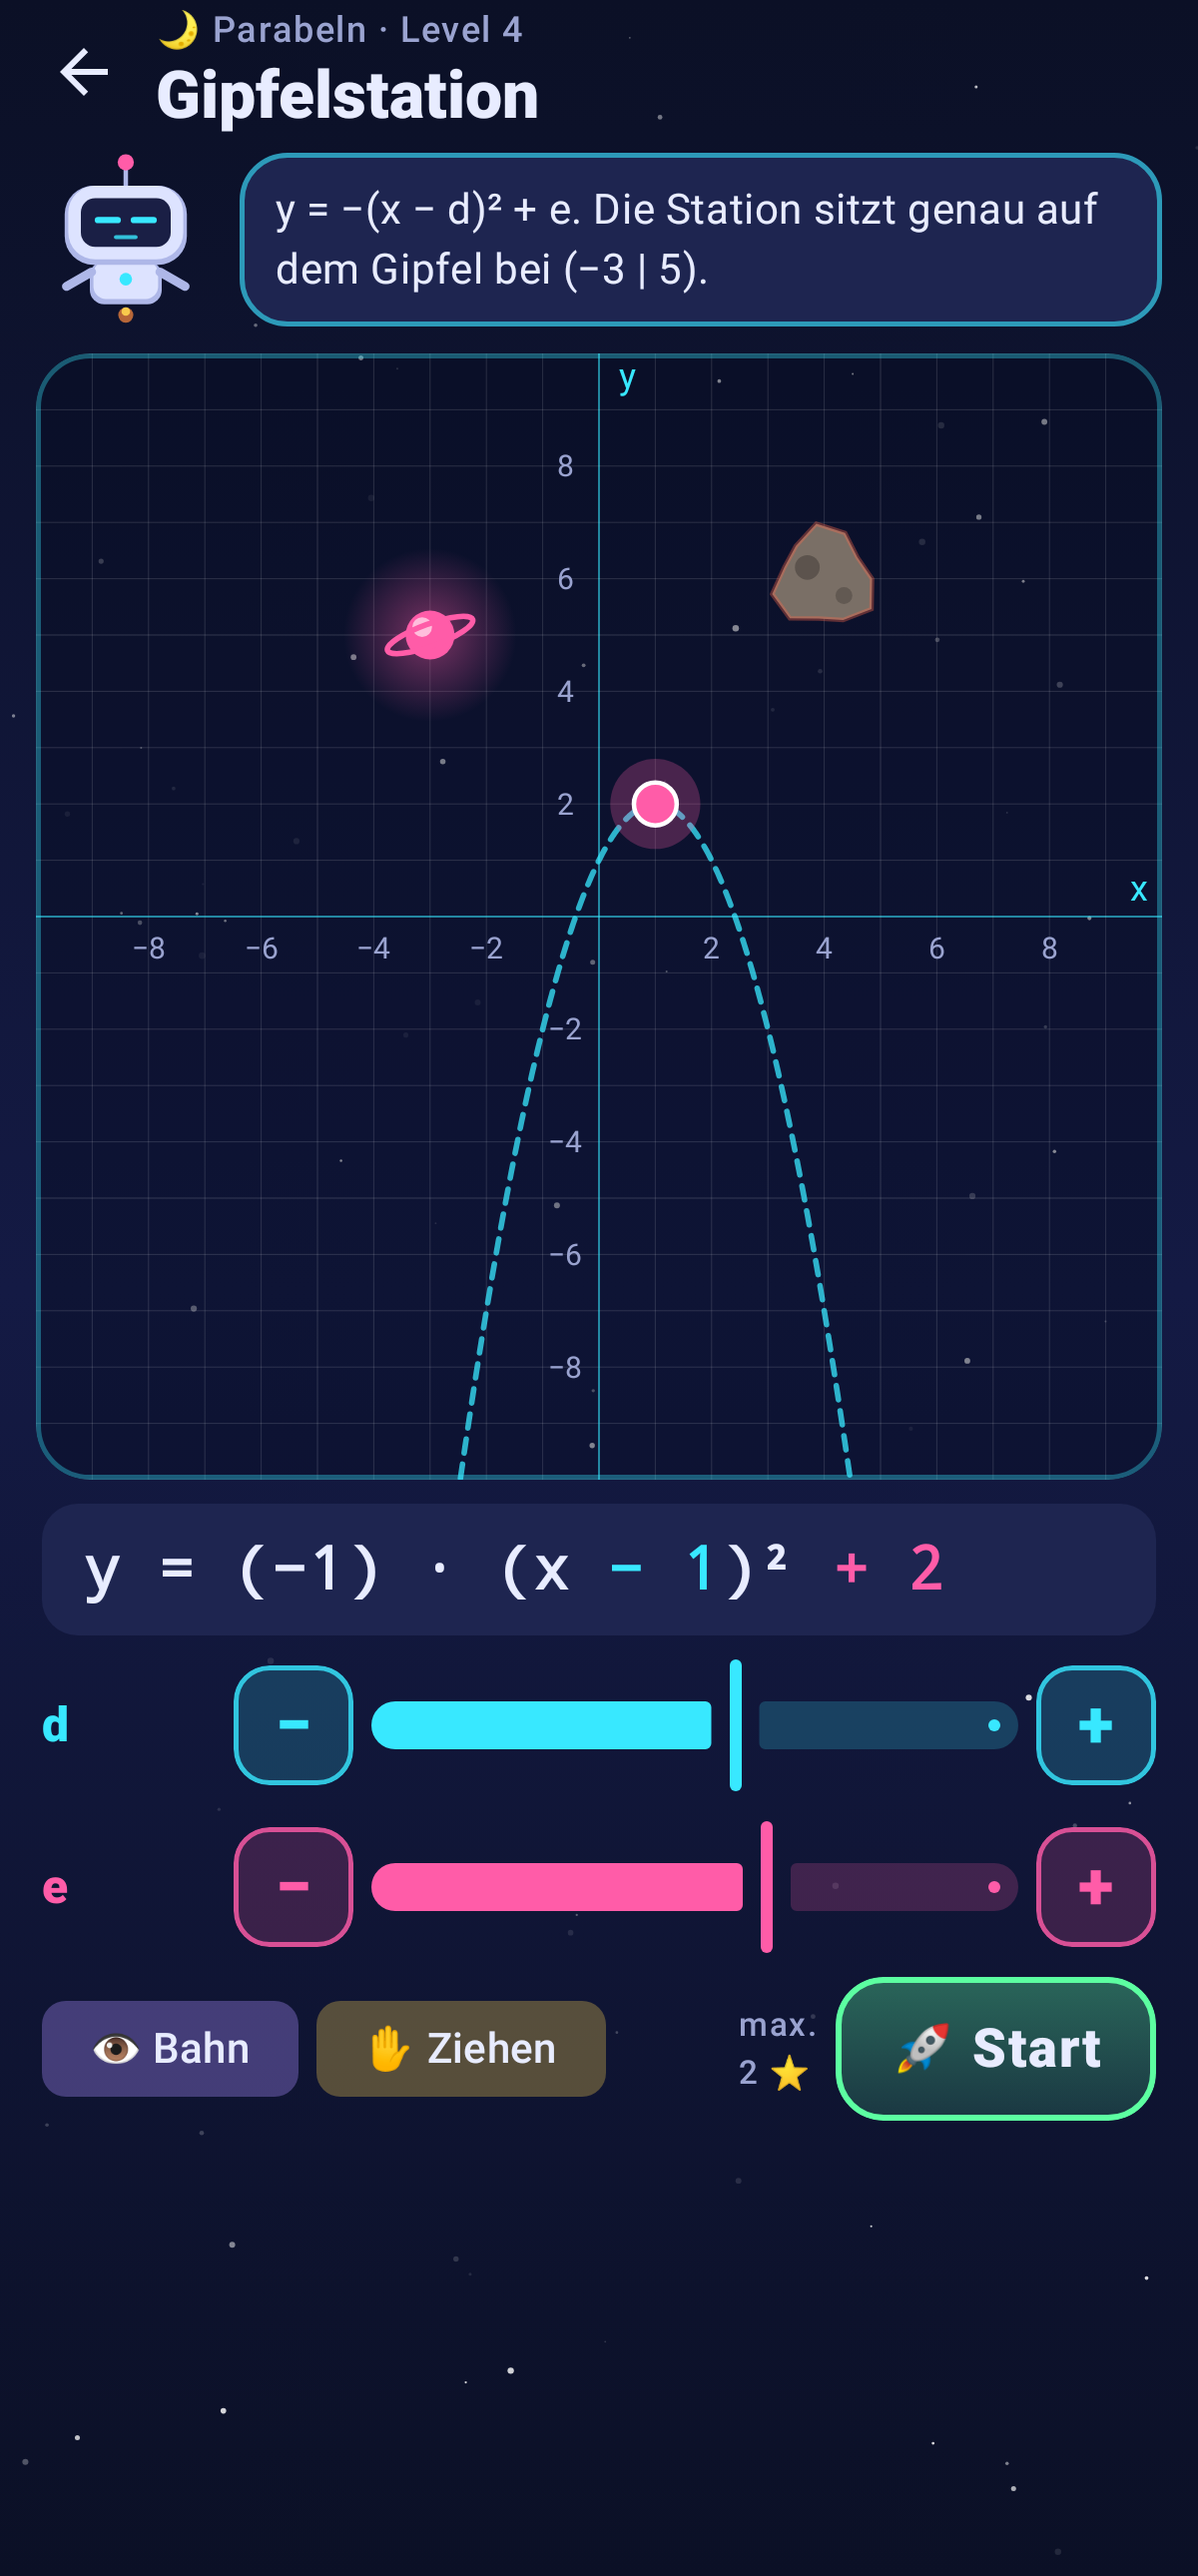
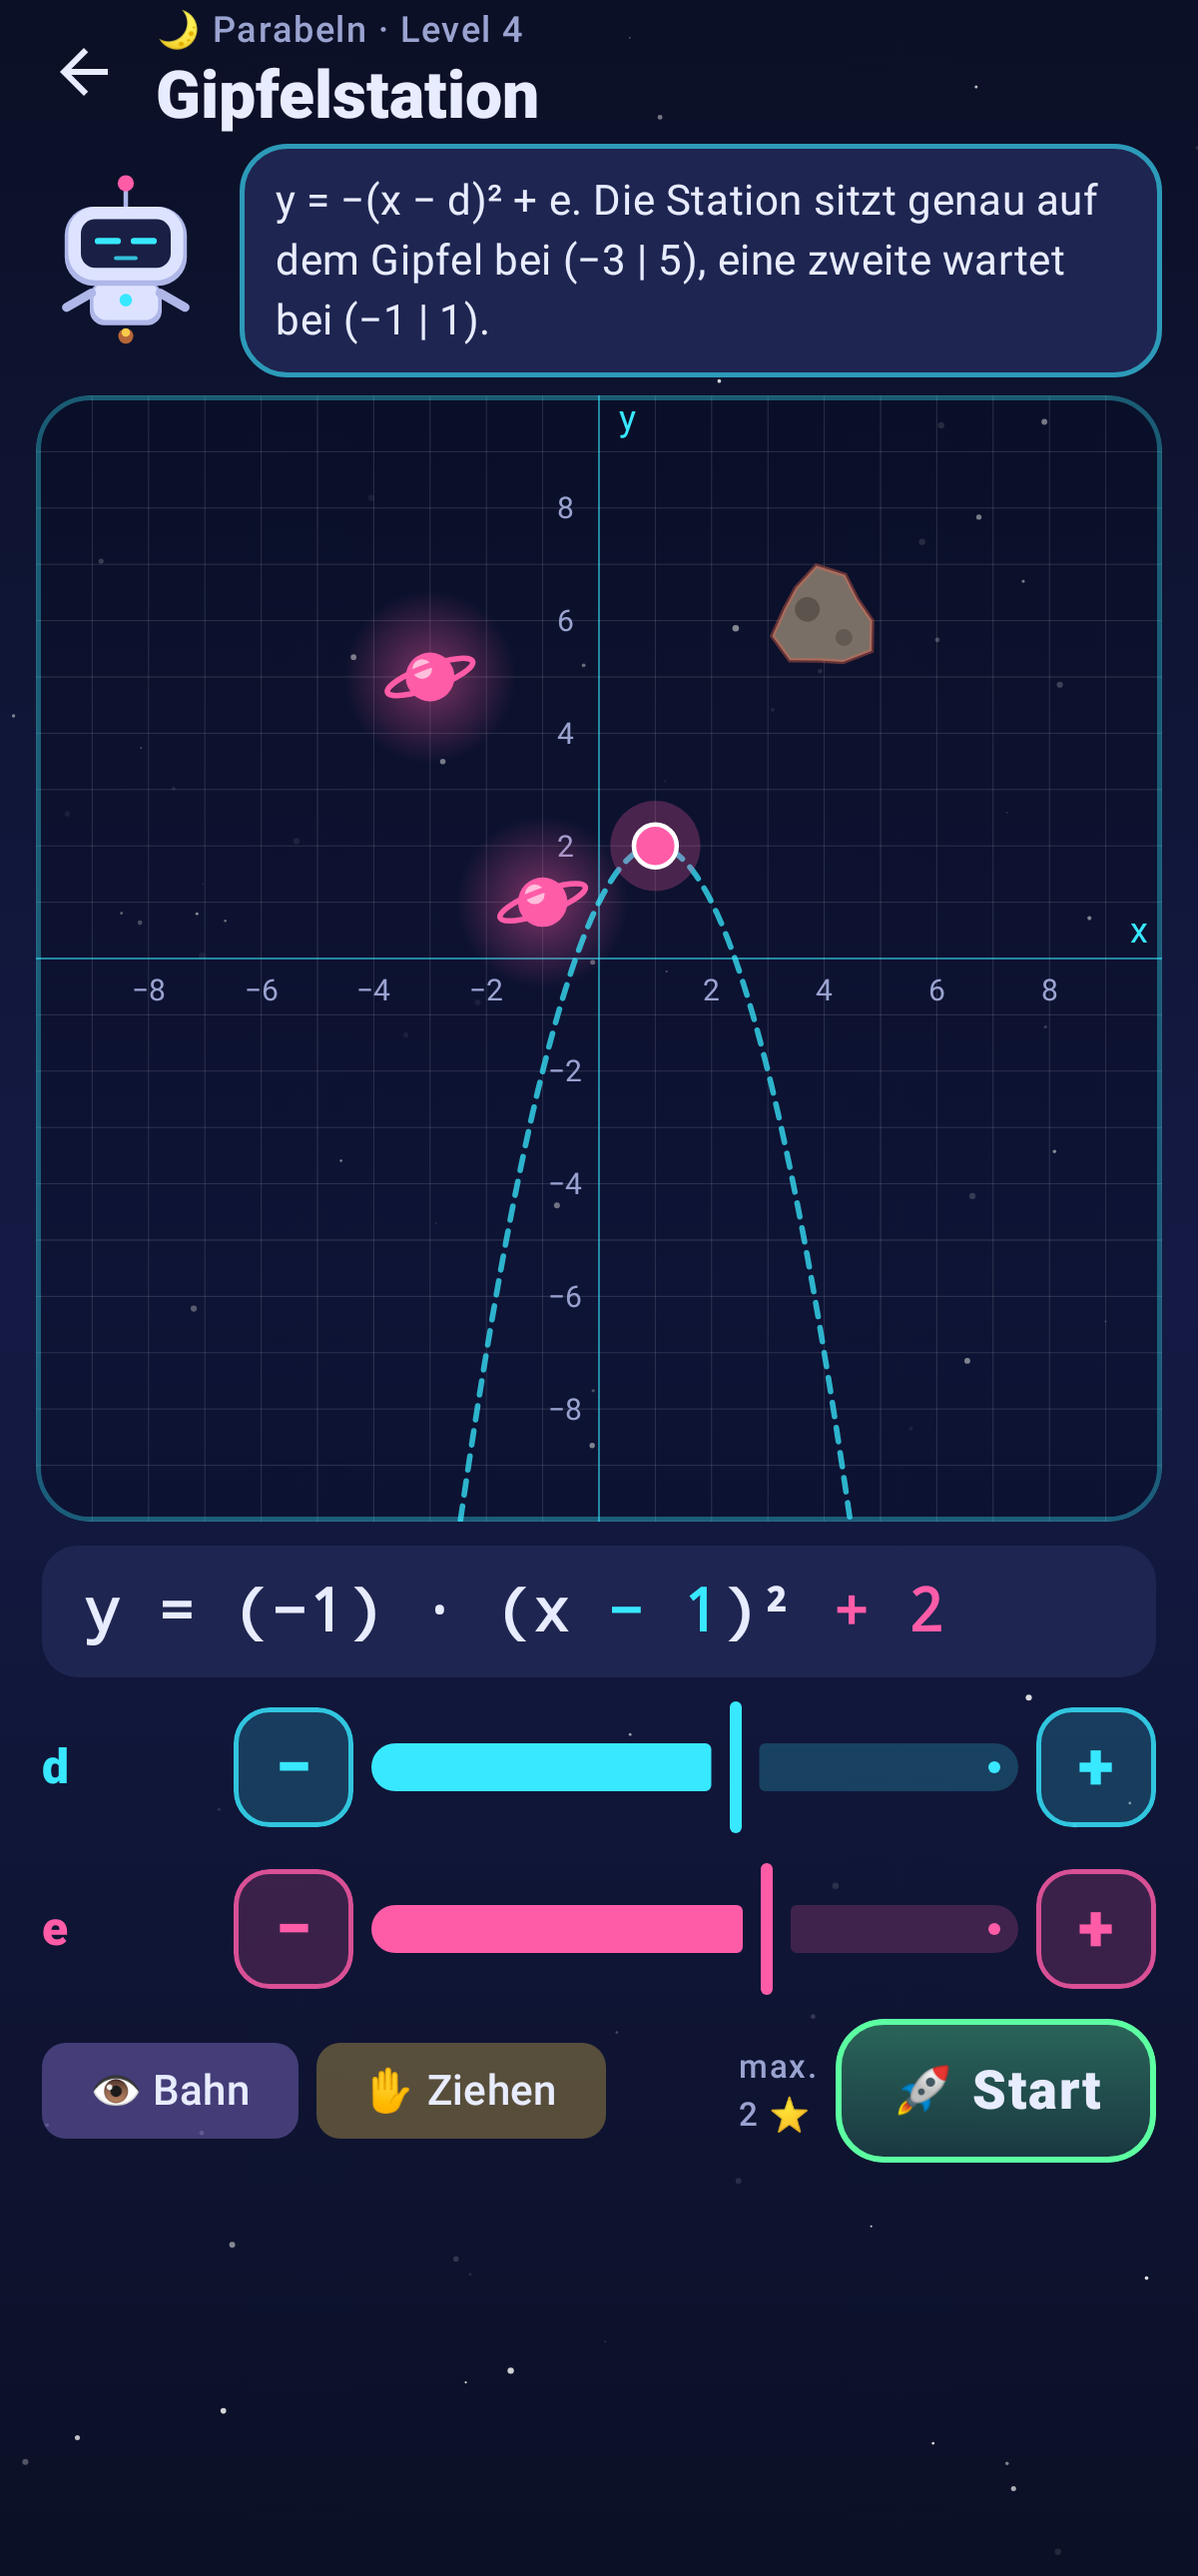
Kurvenflug 0.5.3: Laser-Zielhilfe bis zum ersten Spiegel, Koordinaten-Level altersgerecht, Gipfelstation eindeutig
- Flight.firstLeg: Vorschau-Strahl endet am ersten Knick (Spiegel); Test dazu, neues Bildschirmfoto 37_laser_zielen
- 1-5: „x = 2 − 4“ statt „−8 : 4“; 1-7: Mitte durch Kästchenzählen (−6 | 6) und (2 | −2)
- 3-4: zweite Station (−1 | 1) – bei a = −1 nur noch der Scheitel (−3 | 5) lösbar

Claude-Session: https://claude.ai/code/session_015vg1TniCB6sLGd2dNSJdge

diff --git a/kurvenflug/core/model/src/main/kotlin/de/kurvenflug/core/model/Levels.kt b/kurvenflug/core/model/src/main/kotlin/de/kurvenflug/core/model/Levels.kt
@@ -200,17 +200,17 @@ object Levels {
                     listOf(t(-7.0, -4.0)), listOf(px, py), mapOf("x" to -7.0, "y" to -4.0),
                     tip = "Zähle von der Mitte aus: erst die Kästchen nach links, dann nach unten. Beides ist minus."),
                 Level("1-5", 1, 5, "Funkspruch", Kind.POINT,
-                    "Die Station ist getarnt! Funkspruch: „x = −8 : 4,  y = 3 + 4“",
+                    "Die Station ist getarnt! Funkspruch: „x = 2 − 4,  y = 3 + 4“",
                     listOf(t(-2.0, 7.0)), listOf(px, py), mapOf("x" to -2.0, "y" to 7.0), hidden = true,
-                    tip = "−8 : 4 = −2. Und 3 + 4 = 7."),
+                    tip = "2 − 4: von 2 aus vier Schritte nach links – du landest bei −2. Und 3 + 4 = 7."),
                 Level("1-6", 1, 6, "Spiegelwelt", Kind.POINT,
                     "Getarnt: Die Station ist das Spiegelbild von (5 | −3) – gespiegelt an der x-Achse.",
                     listOf(t(5.0, 3.0)), listOf(px, py), mapOf("x" to 5.0, "y" to 3.0), hidden = true,
                     tip = "Beim Spiegeln an der x-Achse bleibt x gleich, y wechselt das Vorzeichen."),
                 Level("1-7", 1, 7, "Halbe Strecke", Kind.POINT,
-                    "Getarnt: Die Station liegt genau in der Mitte zwischen (−6 | 8) und (2 | −4).",
+                    "Getarnt: Die Station liegt genau in der Mitte zwischen (−6 | 6) und (2 | −2).",
                     listOf(t(-2.0, 2.0)), listOf(px, py), mapOf("x" to -2.0, "y" to 2.0), hidden = true,
-                    tip = "Mitte = Durchschnitt: x = (−6 + 2) : 2, y = (8 + (−4)) : 2."),
+                    tip = "Zähl die Kästchen: von −6 bis 2 sind es 8, die Hälfte ist 4 → x = −6 + 4. Bei y genauso: von 6 bis −2 sind es 8, also 4 nach unten."),
             ),
         ),
         Chapter(
@@ -316,10 +316,10 @@ object Levels {
                     cells = listOf(cell(0.0, 6.0)),
                     tip = "a · 16 + 6 = 2 → a · 16 = −4."),
                 Level("3-4", 3, 4, "Gipfelstation", Kind.PARABOLA,
-                    "y = −(x − d)² + e. Die Station sitzt genau auf dem Gipfel bei (−3 | 5).",
-                    listOf(t(-3.0, 5.0)), listOf(pd, pe), mapOf("d" to -3.0, "e" to 5.0), fixed = mapOf("a" to -1.0),
+                    "y = −(x − d)² + e. Die Station sitzt genau auf dem Gipfel bei (−3 | 5), eine zweite wartet bei (−1 | 1).",
+                    listOf(t(-3.0, 5.0), t(-1.0, 1.0)), listOf(pd, pe), mapOf("d" to -3.0, "e" to 5.0), fixed = mapOf("a" to -1.0),
                     asteroids = listOf(rock(4.0, 6.0)),
-                    tip = "Der Gipfel ist der Scheitel (d | e)."),
+                    tip = "Der Gipfel ist der Scheitel (d | e). Probe: 2 Schritte neben dem Gipfel geht es um 2² = 4 nach unten."),
                 Level("3-5", 3, 5, "Drei Stationen", Kind.PARABOLA,
                     "Alle drei Regler! Durch (−2 | 2), (1 | −7) und (4 | 2).",
                     listOf(t(-2.0, 2.0), t(1.0, -7.0), t(4.0, 2.0)), listOf(pa, pd, pe),

diff --git a/kurvenflug/core/model/src/main/kotlin/de/kurvenflug/core/model/Flight.kt b/kurvenflug/core/model/src/main/kotlin/de/kurvenflug/core/model/Flight.kt
@@ -282,6 +282,22 @@ object Flight {
         return out
     }
 
+    /** Der gerade Anfang einer Bahn bis zum ersten Knick (Laser: bis zum ersten Spiegel). */
+    fun firstLeg(path: List<Vec>): List<Vec> {
+        if (path.size < 3) return path
+        var dir: Vec? = null
+        for (i in 1 until path.size) {
+            val dx = path[i].x - path[i - 1].x; val dy = path[i].y - path[i - 1].y
+            val len = hypot(dx, dy)
+            if (len < 1e-9) continue
+            val d = Vec(dx / len, dy / len)
+            val first = dir
+            if (first == null) dir = d
+            else if (abs(first.x * d.y - first.y * d.x) > 1e-3 || first.x * d.x + first.y * d.y < 0) return path.take(i)
+        }
+        return path
+    }
+
     /** Bahnen der Form y = f(x) */
     val functionKinds = setOf(Kind.LINE, Kind.PARABOLA, Kind.SINE, Kind.EXP, Kind.PROP, Kind.ANTI, Kind.LOG, Kind.MOTION)
 

diff --git a/kurvenflug/app/src/main/java/de/kurvenflug/app/ui/flight/LevelScreen.kt b/kurvenflug/app/src/main/java/de/kurvenflug/app/ui/flight/LevelScreen.kt
@@ -113,7 +113,8 @@ fun LevelScreen(
         if (level.kind == Kind.POINT || level.kind == Kind.RADIUS && !help) emptyList()
         else Flight.path(level, values).let { p ->
             if (help) p else when (level.kind) {
-                Kind.THROW, Kind.ORBIT, Kind.LASER -> p.take(min(p.size, 70))     // die ersten ~1,5 Kästchen: Abschussrichtung
+                Kind.THROW, Kind.ORBIT -> p.take(min(p.size, 70))                 // die ersten ~1,5 Kästchen: Abschussrichtung
+                Kind.LASER -> Flight.firstLeg(p)                                  // bis zum ersten Spiegel – den Abprall konstruierst du selbst
                 Kind.RAMP -> p.take(1)                                            // nur die Kugel am Start
                 else -> p.take(min(p.size, 100))          // die ersten 2 Kästchen am Rand
             }

diff --git a/kurvenflug/core/model/src/test/kotlin/de/kurvenflug/core/model/FlightTest.kt b/kurvenflug/core/model/src/test/kotlin/de/kurvenflug/core/model/FlightTest.kt
@@ -155,4 +155,17 @@ class FlightTest {
             assertTrue("${l.id}: $wins Stellungen treffen", wins in 1..4)
         }
     }
+
+    /** Laser-Zielhilfe: Die Vorschau endet genau am ersten Spiegel. */
+    @Test fun laserFirstLegEndsAtFirstMirror() {
+        val l = Levels.byId("11-1")!! // Boden-Spiegel von (−6 | −6) bis (3 | −6), Abschuss bei (−9 | 0)
+        val path = Flight.path(l, mapOf("angle" to -45.0))
+        val leg = Flight.firstLeg(path)
+        assertTrue(leg.size in 2 until path.size)
+        assertEquals(-6.0, leg.last().y, 0.1)
+        assertEquals(-3.0, leg.last().x, 0.1)
+        // ohne Spiegel im Weg: die ganze Bahn ist gerade
+        val straight = Flight.path(l, mapOf("angle" to 30.0))
+        assertEquals(straight.size, Flight.firstLeg(straight).size)
+    }
 }

diff --git a/kurvenflug/app/src/test/java/de/kurvenflug/app/ui/ScreenshotTest.kt b/kurvenflug/app/src/test/java/de/kurvenflug/app/ui/ScreenshotTest.kt
@@ -153,6 +153,9 @@ class ScreenshotTest {
     @Test fun laser() = level("11-2", name = "31_laser", values = mapOf("angle" to 4.0), settle = 1500,
         prepare = { it.onNodeWithText("🚀 Start").performClick() })
 
+    /** Zielhilfe: Der Strahl ist bis zum ersten Spiegel zu sehen – den Abprall konstruiert man selbst. */
+    @Test fun laserAim() = level("11-1", name = "37_laser_zielen", values = mapOf("angle" to -35.0))
+
     @Test fun ramp() = level("12-1", name = "32_energie_rampe", values = mapOf("h" to 8.0), settle = 1100,
         prepare = { it.onNodeWithText("🚀 Start").performClick() })
 

diff --git a/kurvenflug/CHANGELOG.md b/kurvenflug/CHANGELOG.md
@@ -3,6 +3,13 @@
 Kurz und verständlich für Schüler und Eltern. Der Abschnitt der aktuellen Version erscheint automatisch
 im GitHub-Release und in der App unter „App-Update“.
 
+## 0.5.3 – Laser-Zielhilfe & passendere Aufgaben
+- **🔦 Laser-Zielhilfe**: Beim Zielen siehst du den Strahl jetzt bis zum ersten Spiegel. Wohin er abprallt, findest du selbst
+  heraus – Einfallswinkel = Ausfallswinkel. So kommt man mit Überlegen zum Ziel statt mit Raten.
+- **📍 Koordinaten (Klasse 5–6)**: Die Funksprüche passen jetzt zur Klassenstufe – „2 − 4“ statt Teilen mit Minuszahlen,
+  und die Mitte zwischen zwei Punkten findet man durch Kästchenzählen.
+- **🌙 Gipfelstation**: Eine zweite Station sorgt dafür, dass wirklich der Gipfel (Scheitel) getroffen werden muss.
+
 ## 0.5.2 – Rechnen lohnt sich
 - **Treffer zählen jetzt nur, wenn die Rechnung stimmt**: Bisher reichte es manchmal, wenn eine steile Kurve die Station nur
   am Rand streifte – dann klappte es auch mit geratenen Zahlen. Jetzt muss die Kurve an der Stelle der Station die richtige

diff --git a/kurvenflug/README.md b/kurvenflug/README.md
@@ -30,7 +30,7 @@ Rendezvous/Gleichungssysteme (Kl. 8), schräger Wurf auf Erde/Mond/Mars (Physik)
 | ![](screenshots/27_klassen_challenge.png) | ![](screenshots/28_formel_detektiv.png) | ![](screenshots/29_antiproportional.png) |
 | ![](screenshots/30_pythagoras.png) | ![](screenshots/31_laser.png) | ![](screenshots/32_energie_rampe.png) |
 | ![](screenshots/33_logarithmus.png) | ![](screenshots/34_weg_zeit.png) | ![](screenshots/35_lexikon.png) |
-| ![](screenshots/36_werkstatt.png) | ![](screenshots/11_einstellungen.png) | |
+| ![](screenshots/36_werkstatt.png) | ![](screenshots/37_laser_zielen.png) | ![](screenshots/11_einstellungen.png) |
 
 ## Aufbau
 - `core/model` – reine Kotlin-Logik: Flugbahnen, Wurfphysik, Gravitation (Leapfrog), Kollisionen, Level, Tagesmission-Generator,
